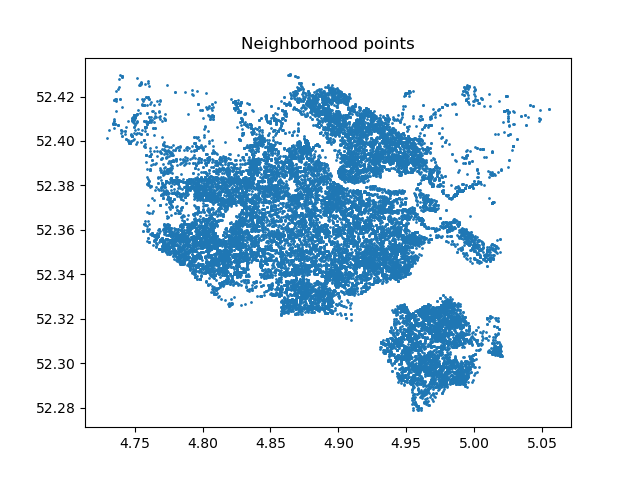
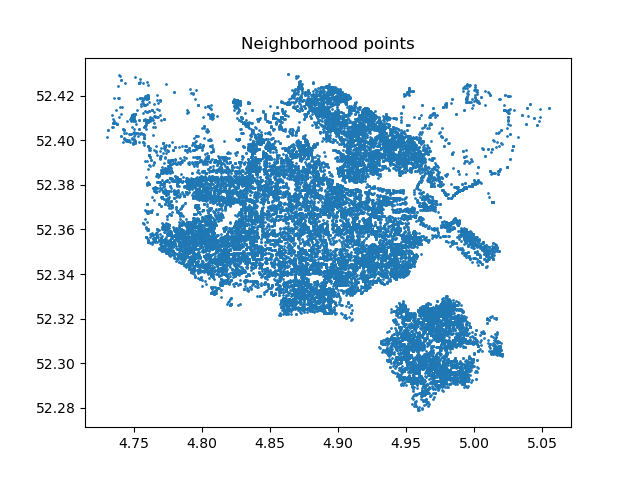
Add configurable paths for PBF and GTFS datasets

diff --git a/The_package/src/package_name/core/_t_walk.py b/The_package/src/package_name/core/_t_walk.py
@@ -13,38 +13,25 @@ Distances are converted to walking time in minutes.
 from package_name.core._classes import Database
 import pandas as pd
 
-
 def compute_t_walk(database, network):
-   """
-   ### Expected:
-       - create_pts_per_neighborhood() run
-       - network loaded
-   ### Returns:
-       - DataFrame (neighborhood_id, t_walk_minutes)
-   """
+    """
+    ### Expected:
+        - create_pts_per_neighborhood() run
+        - network loaded
+    ### Returns:
+        - DataFrame (neighborhood_id, avg_dist)
+    """
 
+    # 1. link transit
+    database.link_busses()
 
-   # 1. link transit
-   database.link_busses()
+    # 2. move if needed
+    database.move_transit_minimal()
 
+    # 3. compute distances
+    database.calculate_distances_to_nearest_transit()
 
-   # 2. move if needed
-   database.move_transit_minimal()
+    # 4. aggregate per neighborhood
+    df = database.get_dist_per_neighborhood()
 
-
-   # 3. compute node distances
-   database.get_neighborhood_dist_to_nearest_transit()
-
-
-   # 4. aggregate per neighborhood
-   df = database.get_dist_per_neighborhood()
-
-
-   # 5. convert meters → minutes
-   WALK_SPEED = 1.33  # m/s
-
-
-   df["t_walk_min"] = df["avg_dist"] / WALK_SPEED / 60
-
-
-   return df
+    return df

diff --git a/The_package/tests/test_accessibility.py b/The_package/tests/test_accessibility.py
@@ -6,6 +6,8 @@ geopackage = "tests/TestDatasets/test.gpkg"
 from package_name.core._travel_time import compute_travel_times_basic
 from package_name.core._travel_time import compute_travel_times_from_database
 from package_name.core._t_walk import compute_t_walk
+from package_name.config.data_path import PBF_FILE
+from package_name.config.data_path import PBF_FILE, GTFS_FILE
 
 
 def test_r5_basic():
@@ -42,8 +44,8 @@ def test_r5_basic():
 
    # Build r5 network using test datasets
    network.build_r5_network(
-       osm_pbf_path="tests/TestDatasets/amsterdam.osm.pbf",
-       gtfs_files=["tests/TestDatasets/test_gtfs.zip"]
+       osm_pbf_path=PBF_FILE,
+       gtfs_files=[GTFS_FILE]
    )
 
 
@@ -144,8 +146,8 @@ def test_r5_from_database():
 
 
    network.build_r5_network(
-       osm_pbf_path="tests/TestDatasets/amsterdam.osm.pbf",
-       gtfs_files=["tests/TestDatasets/test_gtfs.zip"]
+       osm_pbf_path=PBF_FILE,
+       gtfs_files=[GTFS_FILE]
    )
 
 

diff --git a/The_package/src/package_name/core/_accessibility_model.py b/The_package/src/package_name/core/_accessibility_model.py
@@ -10,9 +10,7 @@ import numpy as np
 from r5py import TravelTimeMatrix
 import geopandas as gpd
 from datetime import datetime
-
-
-
+from package_name.config.data_path import PBF_FILE
 
 def run_accessibility(network: Network,
                      database: Database,
@@ -121,11 +119,8 @@ def _compute_travel_times(network,
    ### Description:
        - Computes travel time matrix using r5
    """
-
-
    # Get r5 network
    r5_network = network.get_r5_network()
-
 
    # Initialize travel time matrix
    ttm = TravelTimeMatrix(
@@ -135,21 +130,14 @@ def _compute_travel_times(network,
        departure=departure_time
    )
 
-
    # Compute travel times
    travel_time_matrix = ttm.compute_travel_times()
 
 
    return travel_time_matrix
 
-
-
-
 from shapely import wkb
 import geopandas as gpd
-
-
-
 
 def _get_neighborhood_points(database):
    """

diff --git a/The_package/src/package_name/config/data_path.py b/The_package/src/package_name/config/data_path.py
@@ -1,0 +1,6 @@
+import os
+
+DATA_PATH = os.getenv("DATA_PATH", "/Users/arjan/datasets/osm/")
+PBF_FILE = os.path.join(DATA_PATH, "amsterdam.osm.pbf")
+
+GTFS_FILE = os.path.join(DATA_PATH, "test_gtfs.zip")
